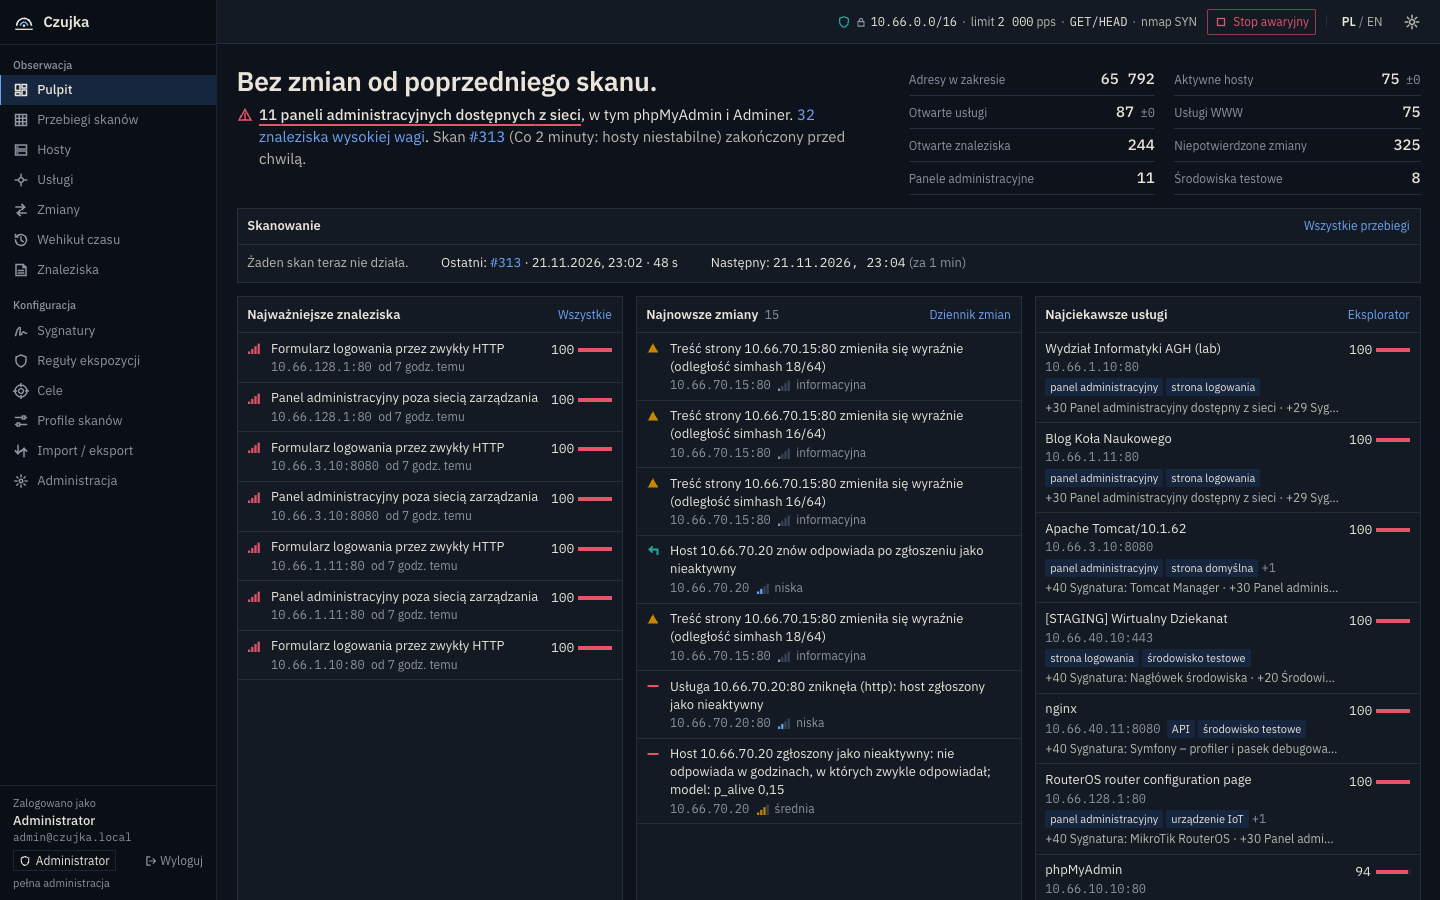
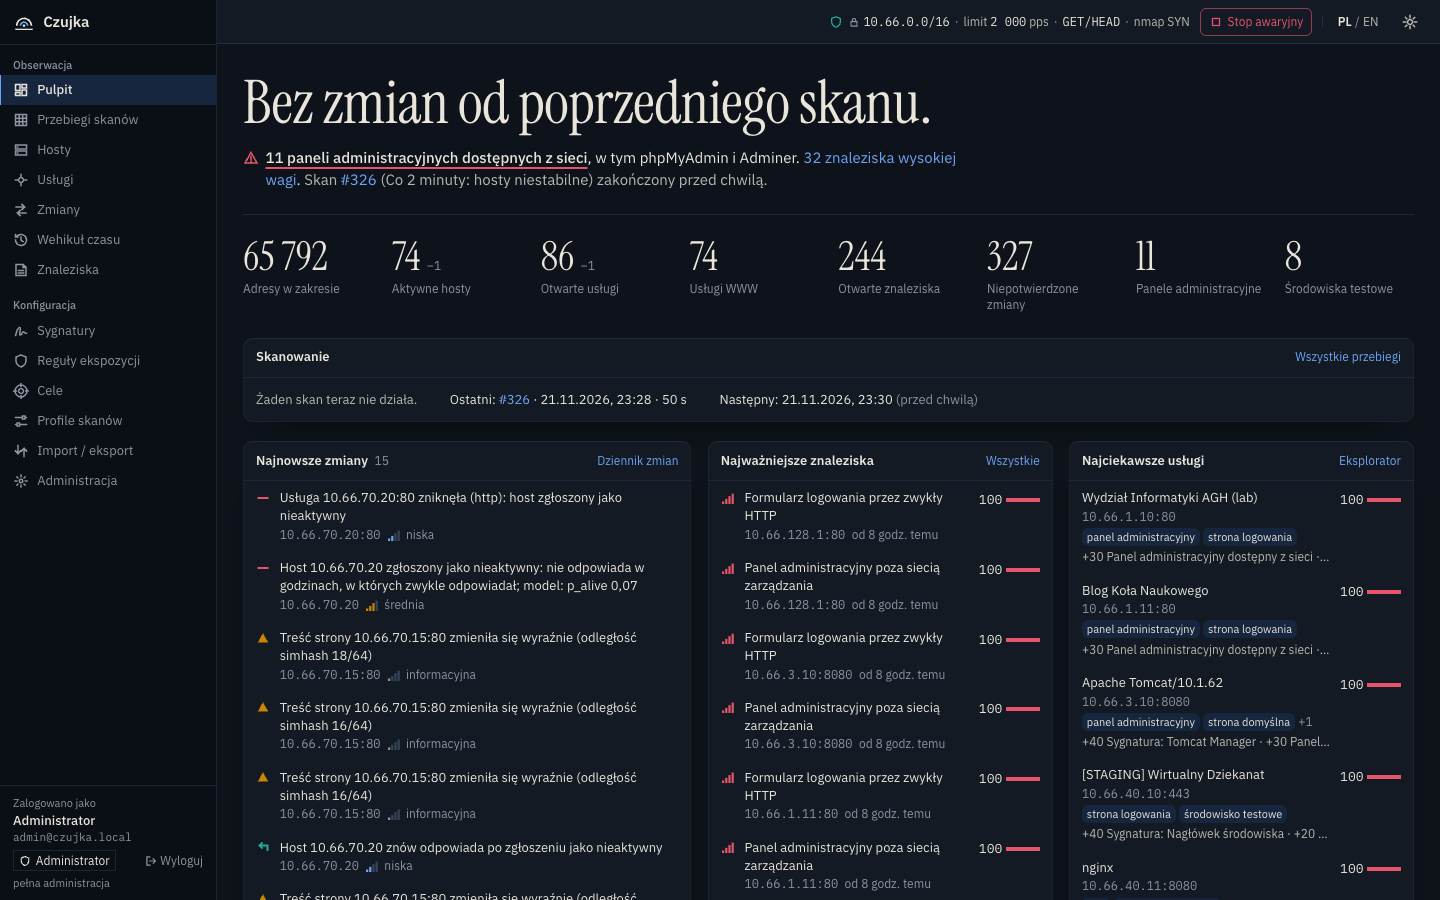
feat(web): dashboard first screen as one statement in the display face, the numbers as one confident row, recent changes first; status marks in page titles stay in the UI face

diff --git a/web/src/pages/Dashboard.tsx b/web/src/pages/Dashboard.tsx
@@ -54,7 +54,7 @@ function Handover({ d, full }: { d: Dash; full?: ScanRun | null }) {
   if (!run && partial) {
     return (
       <div>
-        <p className="text-xl font-semibold tracking-[-0.015em]" data-testid="handover">{t('Nie ma jeszcze pełnego skanu profilu do porównania.', 'No full profile scan to compare yet.')}</p>
+        <p className="font-display text-[40px] leading-[1.02] sm:text-[52px]" data-testid="handover">{t('Nie ma jeszcze pełnego skanu profilu do porównania.', 'No full profile scan to compare yet.')}</p>
         <p className="mt-2 text-sm text-ink-2" data-testid="handover-partial">{t('Ostatnio', 'Last')}: {partialRunPhrase(partial)} (<Link to={'/runs/' + partial.id} className="num link">#{partial.id}</Link>, {fmtRelative(partial.finished_at)}).</p>
       </div>
     );
@@ -62,7 +62,7 @@ function Handover({ d, full }: { d: Dash; full?: ScanRun | null }) {
   if (!run) {
     return (
       <div>
-        <p className="text-xl font-semibold tracking-[-0.015em]">{t('Nie ma jeszcze zakończonego skanu.', 'No scan has completed yet.')}</p>
+        <p className="font-display text-[40px] leading-[1.02] sm:text-[52px]">{t('Nie ma jeszcze zakończonego skanu.', 'No scan has completed yet.')}</p>
         <p className="mt-2 text-base text-ink-2">{t('Dodaj cele, przygotuj profil i uruchom pierwszy przebieg. Pulpit pokaże wtedy, co działa w sieci.', 'Add targets, prepare a profile and start the first run. The dashboard then shows what is on the network.')}</p>
         <Link to="/targets" className="link mt-3 inline-block text-sm">{t('Dodaj cele', 'Add targets')}</Link>
       </div>
@@ -92,8 +92,8 @@ function Handover({ d, full }: { d: Dash; full?: ScanRun | null }) {
       : t('Od poprzedniego skanu: ', 'Since the previous scan: ') + parts.join(', ') + '.';
   return (
     <div>
-      <p className="max-w-[30ch] text-xl font-semibold tracking-[-0.015em] text-ink sm:max-w-none" data-testid="handover">{headline}</p>
-      <p className={cx('mt-2 flex items-start gap-2 text-base', attention ? 'text-ink' : 'text-ink-2')} data-testid="handover-attention">
+      <p className="font-display max-w-[30ch] text-[40px] leading-[1.02] tracking-[-0.01em] text-ink sm:text-[52px] xl:text-[60px]" data-testid="handover">{headline}</p>
+      <p className={cx('mt-4 flex max-w-[80ch] items-start gap-2 text-base', attention ? 'text-ink' : 'text-ink-2')} data-testid="handover-attention">
         {attention ? <Icon name="alert" className="mt-[3px] flex-none text-st-gone" /> : <Icon name="check" className="mt-[3px] flex-none text-st-new" />}
         <span>
           {h.admin_panels > 0 ? (
@@ -150,18 +150,18 @@ function Handover({ d, full }: { d: Dash; full?: ScanRun | null }) {
 function Stat({ label, value, delta, deltaTitle, to, mono = true }: { label: string; value: ReactNode; delta?: number | null; deltaTitle?: string; to?: string; mono?: boolean }) {
   const inner = (
     <>
-      <dt className="text-xs text-ink-3">{label}</dt>
       <dd className="flex items-baseline gap-2">
-        <span className={cx('text-base font-medium text-ink', mono && 'num')}>{value}</span>
+        <span className={cx('text-ink', mono ? 'font-display text-[34px] leading-none sm:text-[40px]' : 'text-base font-medium')}>{value}</span>
         {delta !== undefined && delta !== null ? (
           <span className="num text-xs text-ink-3" title={deltaTitle ?? t('zmiana względem poprzedniego skanu', 'change against the previous scan')}>{delta === 0 ? '±0' : fmtSigned(delta)}</span>
         ) : null}
       </dd>
+      <dt className="mt-1.5 text-xs text-ink-3 group-hover:text-ink-2">{label}</dt>
     </>
   );
   return to
-    ? <Link to={to} className="flex items-baseline justify-between gap-3 border-b border-rule py-1.5 hover:bg-raised">{inner}</Link>
-    : <div className="flex items-baseline justify-between gap-3 border-b border-rule py-1.5">{inner}</div>;
+    ? <Link to={to} className="group -mx-2 flex flex-col rounded-md px-2 py-1.5 transition-colors hover:bg-raised">{inner}</Link>
+    : <div className="flex flex-col py-1.5">{inner}</div>;
 }
 
 function Inventory({ d, pair }: { d: Dash; pair?: { full?: ScanRun; prev?: ScanRun } }) {
@@ -172,7 +172,7 @@ function Inventory({ d, pair }: { d: Dash; pair?: { full?: ScanRun; prev?: ScanR
   const dServices = full && prev ? full.stats.services_open - prev.stats.services_open : null;
   const deltaTitle = full && prev ? t('zmiana między pełnymi skanami #' + prev.id + ' i #' + full.id + (full.profile_name ? ' (' + full.profile_name + ')' : ''), 'change between the full scans #' + prev.id + ' and #' + full.id + (full.profile_name ? ' (' + full.profile_name + ')' : '')) : undefined;
   return (
-    <dl className="grid grid-cols-1 gap-x-6 sm:grid-cols-2">
+    <dl className="grid grid-cols-2 gap-x-6 gap-y-3 sm:grid-cols-4 xl:grid-cols-8" data-testid="dash-numbers">
       <Stat label={t('Adresy w zakresie', 'Addresses in scope')} value={fmtInt(h.addresses_in_scope)} to="/targets" />
       <Stat label={t('Aktywne hosty', 'Hosts up')} value={fmtInt(h.hosts_up)} delta={dHosts} deltaTitle={deltaTitle} to="/hosts?status=up" />
       <Stat label={t('Otwarte usługi', 'Open services')} value={fmtInt(h.services_open)} delta={dServices} deltaTitle={deltaTitle} to="/services?state=open" />
@@ -261,7 +261,7 @@ function IdleRun({ d }: { d: Dash }) {
 }
 
 function Row({ to, children }: { to: string; children: ReactNode }) {
-  return <li><Link to={to} className="flex min-h-[44px] items-start gap-3 border-b border-rule px-3 py-2 hover:bg-raised">{children}</Link></li>;
+  return <li><Link to={to} className="flex min-h-[48px] items-start gap-3 border-b border-rule/60 px-4 py-2.5 transition-colors last:border-b-0 hover:bg-raised">{children}</Link></li>;
 }
 
 function RecentChanges({ changes }: { changes: Change[] }) {
@@ -427,16 +427,17 @@ export default function Dashboard() {
     );
   }
   return (
-    <div className="mx-auto max-w-[1480px] space-y-4 p-4 sm:p-6">
+    <div className="mx-auto max-w-[1480px] space-y-6 p-4 sm:p-6 lg:p-8">
       <h1 className="sr-only">{t('Pulpit', 'Dashboard')}</h1>
-      <div className="grid gap-x-10 gap-y-5 xl:grid-cols-[minmax(0,1.25fr)_minmax(0,1fr)]">
+      <div className="space-y-7 pt-1">
         <Handover d={d} full={runs.data ? (pair.full ?? null) : undefined} />
-        <Inventory d={d} pair={runs.data ? pair : undefined} />
+        <div className="border-t border-rule/70 pt-5"><Inventory d={d} pair={runs.data ? pair : undefined} /></div>
       </div>
 
       {d.active_run ? <ActiveRun initial={d.active_run} d={d} /> : <IdleRun d={d} />}
 
-      <div className="grid gap-4 xl:grid-cols-3">
+      <div className="grid gap-5 xl:grid-cols-[minmax(0,1.3fr)_minmax(0,1fr)_minmax(0,1fr)]">
+        <RecentChanges changes={d.recent_changes ?? []} />
         <Panel title={t('Najważniejsze znaleziska', 'Top findings')} flush actions={<Link to="/findings" className="link">{t('Wszystkie', 'All')}</Link>}>
           {(d.top_findings ?? []).length === 0 ? <p className="p-3 text-sm text-ink-2">{t('Brak otwartych znalezisk.', 'No open finding.')}</p> : null}
           <ul>
@@ -456,7 +457,6 @@ export default function Dashboard() {
           </ul>
         </Panel>
 
-        <RecentChanges changes={d.recent_changes ?? []} />
 
         <Panel title={t('Najciekawsze usługi', 'Most interesting services')} flush actions={<Link to="/services?sort=-interest" className="link">{t('Eksplorator', 'Explorer')}</Link>}>
           <ul>

diff --git a/web/src/pages/RunDetail.tsx b/web/src/pages/RunDetail.tsx
@@ -176,7 +176,7 @@ export default function RunDetail() {
     <div>
       <PageHeader
         back={{ to: '/runs', label: t('Przebiegi skanów', 'Scan runs') }}
-        title={<span className="flex flex-wrap items-center gap-x-3 gap-y-1"><span>{t('Przebieg', 'Run')} <span className="num">#{run.id}</span></span><span className="text-base font-normal"><RunStatusMark status={run.status} pauseReason={run.pause_reason} /></span></span>}
+        title={<span className="flex flex-wrap items-center gap-x-3 gap-y-1"><span>{t('Przebieg', 'Run')} <span className="num">#{run.id}</span></span><span className="font-sans text-base font-normal"><RunStatusMark status={run.status} pauseReason={run.pause_reason} /></span></span>}
         sub={<>{run.profile_id ? <Link to={'/profiles/' + run.profile_id} className="link">{run.profile_name}</Link> : run.profile_name} · {run.trigger === 'schedule' ? t('z harmonogramu', 'from the schedule') : run.trigger === 'import' ? t('import pliku', 'file import') : run.trigger === 'manual' ? t('uruchomiony ręcznie', 'started by hand') : triggerLabel(run.trigger)} · {fmtDateTime(run.started_at)}
           {isLive ? <span className="ml-2 inline-flex items-center gap-1 text-xs text-ink-3"><span className={cx('inline-block h-1.5 w-1.5 rounded-full', connected ? 'bg-st-new' : 'bg-st-changed')} />{connected ? t('na żywo', 'live') : t('łączenie…', 'connecting…')}</span> : null}</>}
         readOnly={!canRun && (isLive || run.status === 'paused')}

diff --git a/web/src/pages/ServiceDetail.tsx b/web/src/pages/ServiceDetail.tsx
@@ -206,7 +206,7 @@ export default function ServiceDetail() {
     <div>
       <PageHeader
         back={{ to: '/services', label: t('Usługi', 'Services') }}
-        title={<span className="flex flex-wrap items-center gap-x-3 gap-y-1"><span className="mono">{s.ip}:{s.port}</span><span className="text-base font-normal"><ServiceStateMark state={s.state} /></span></span>}
+        title={<span className="flex flex-wrap items-center gap-x-3 gap-y-1"><span className="mono">{s.ip}:{s.port}</span><span className="font-sans text-base font-normal"><ServiceStateMark state={s.state} /></span></span>}
         sub={<><Link to={'/hosts/' + s.host_id} className="link">{t('host', 'host')} <span className="mono">{s.hostname || s.ip}</span></Link> · {serviceName(s)}{isSelf(s) ? <SelfTag /> : null}{s.tls ? ' · TLS' : ''}{s.url ? <> · <a className="link mono inline-flex items-center gap-1" href={s.url} target="_blank" rel="noreferrer noopener">{s.url}<Icon name="external" size={11} /></a></> : null}</>}
         readOnly={!canEdit}
         actions={<span className="flex items-center gap-3 text-sm text-ink-2">{canSuggest ? <SuggestButton serviceId={s.id} /> : null}<span className="flex items-center gap-2">{t('Ciekawość', 'Interest')} <InterestScore value={s.interest} /></span></span>}

diff --git a/web/src/pages/HostDetail.tsx b/web/src/pages/HostDetail.tsx
@@ -124,7 +124,7 @@ export default function HostDetail() {
     <div>
       <PageHeader
         back={{ to: '/hosts', label: t('Hosty', 'Hosts') }}
-        title={<span className="flex flex-wrap items-center gap-x-3 gap-y-1"><span className="mono">{h.ip}</span><span className="text-base font-normal"><HostStatusMark status={h.status} /></span></span>}
+        title={<span className="flex flex-wrap items-center gap-x-3 gap-y-1"><span className="mono">{h.ip}</span><span className="font-sans text-base font-normal"><HostStatusMark status={h.status} /></span></span>}
         sub={<>{h.label ? <span className="text-ink">{h.label} · </span> : null}<span className="mono">{(h.hostnames ?? []).join(', ') || t('bez nazwy DNS', 'no DNS name')}</span></>}
         readOnly={!canEdit}
         actions={<span className="flex items-center gap-2 text-sm text-ink-2">{t('Ciekawość', 'Interest')} <InterestScore value={h.interest} /></span>}
